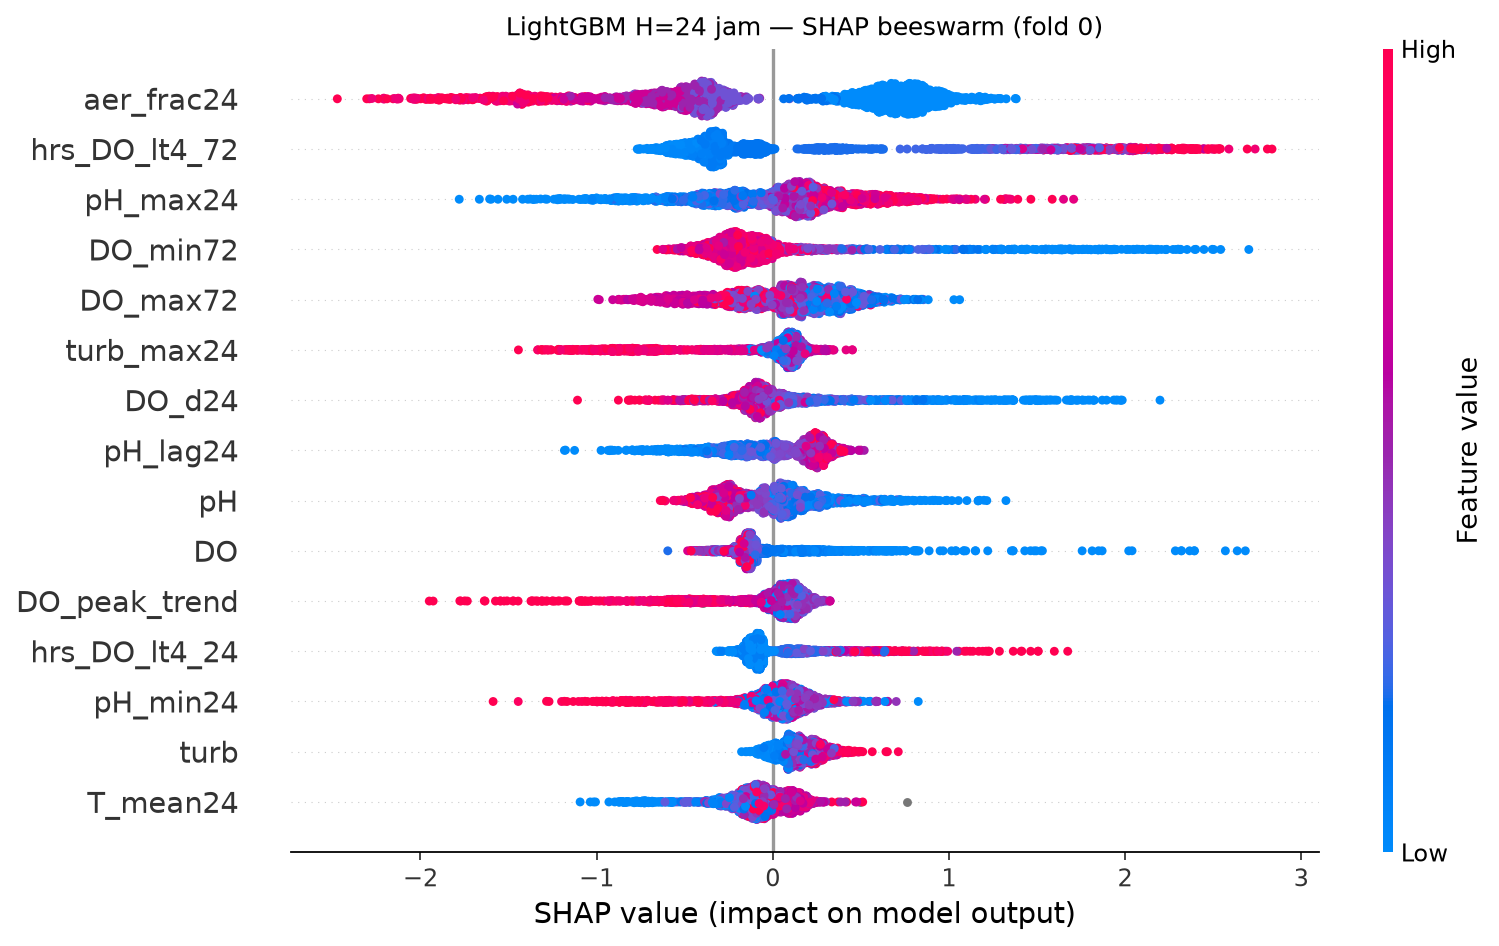
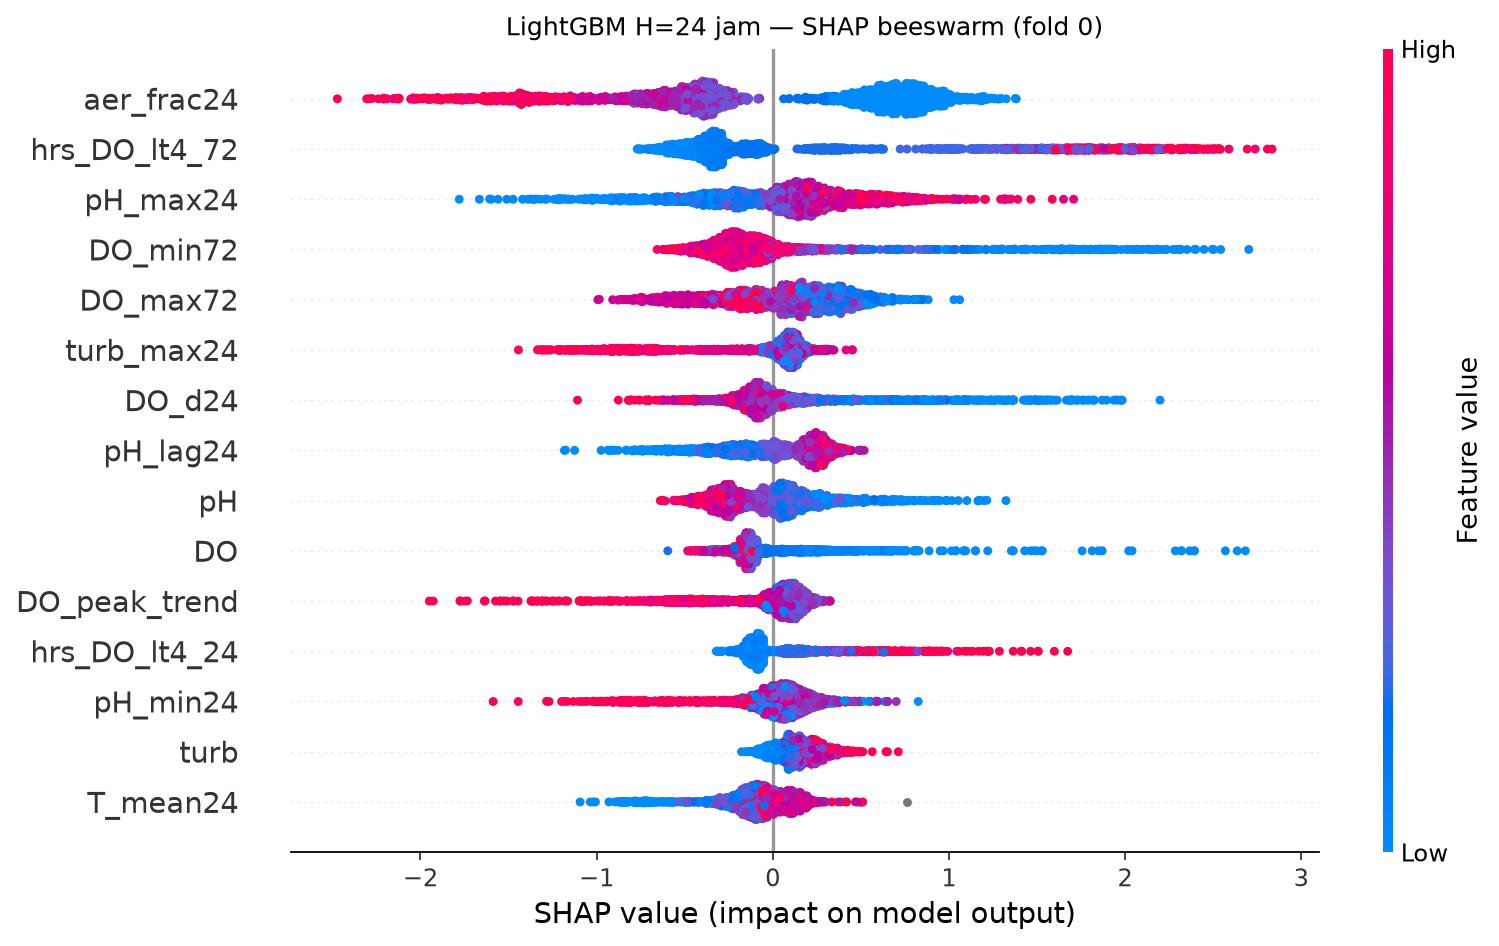
Complete five-fold sequence model evaluation

diff --git a/scripts/build_nb03.py b/scripts/build_nb03.py
@@ -27,8 +27,8 @@ pengamatan lapangan.
 
 Isi: SHAP untuk LightGBM H=6/24, ablation kelompok sensor H=6/12/24, CNN 1D
 sebagai model sequence pembanding, serta uji Wilcoxon/Friedman pada hasil
-5-fold notebook 02. CNN dijalankan pada 3 fold pertama untuk membatasi waktu
-CPU; jumlah epoch dapat dikurangi untuk uji awal.
+5-fold notebook 02. CNN memakai 5 fold; bila waktu CPU melebihi 30 menit,
+turunkan menjadi 3 fold dan laporkan.
 """
 )
 
@@ -61,7 +61,7 @@ from modeling import (
 
 SEED = 0
 N_SPLITS = 5
-CNN_SPLITS = 3
+CNN_SPLITS = 5
 CNN_EPOCHS = 3
 CNN_BATCH_SIZE = 1024
 torch.set_num_threads(min(4, os.cpu_count() or 1))
@@ -377,7 +377,7 @@ Masukan tiap contoh adalah jendela 72 jam dari empat bacaan sensor, status
 aerator, dan sin/cos jam. Nilai sensor dinormalisasi memakai statistik periode
 training fold saja; nilai yang masih hilang setelah preprocessing diisi median
 training. Negatif di-*downsample* dengan helper yang sama (`neg_frac=0.25`).
-Untuk menjaga durasi, CNN memakai 3 fold pertama dan 3 epoch. Threshold tetap
+CNN memakai 5 fold dan 3 epoch. Threshold tetap
 ditentukan dari April kolam training, lalu hasil uji di Mei–Juni.
 Model ini baseline kecil (3 epoch), bukan hasil tuning arsitektur; metriknya
 dilaporkan apa adanya dan tidak dipakai untuk menggantikan model utama.
